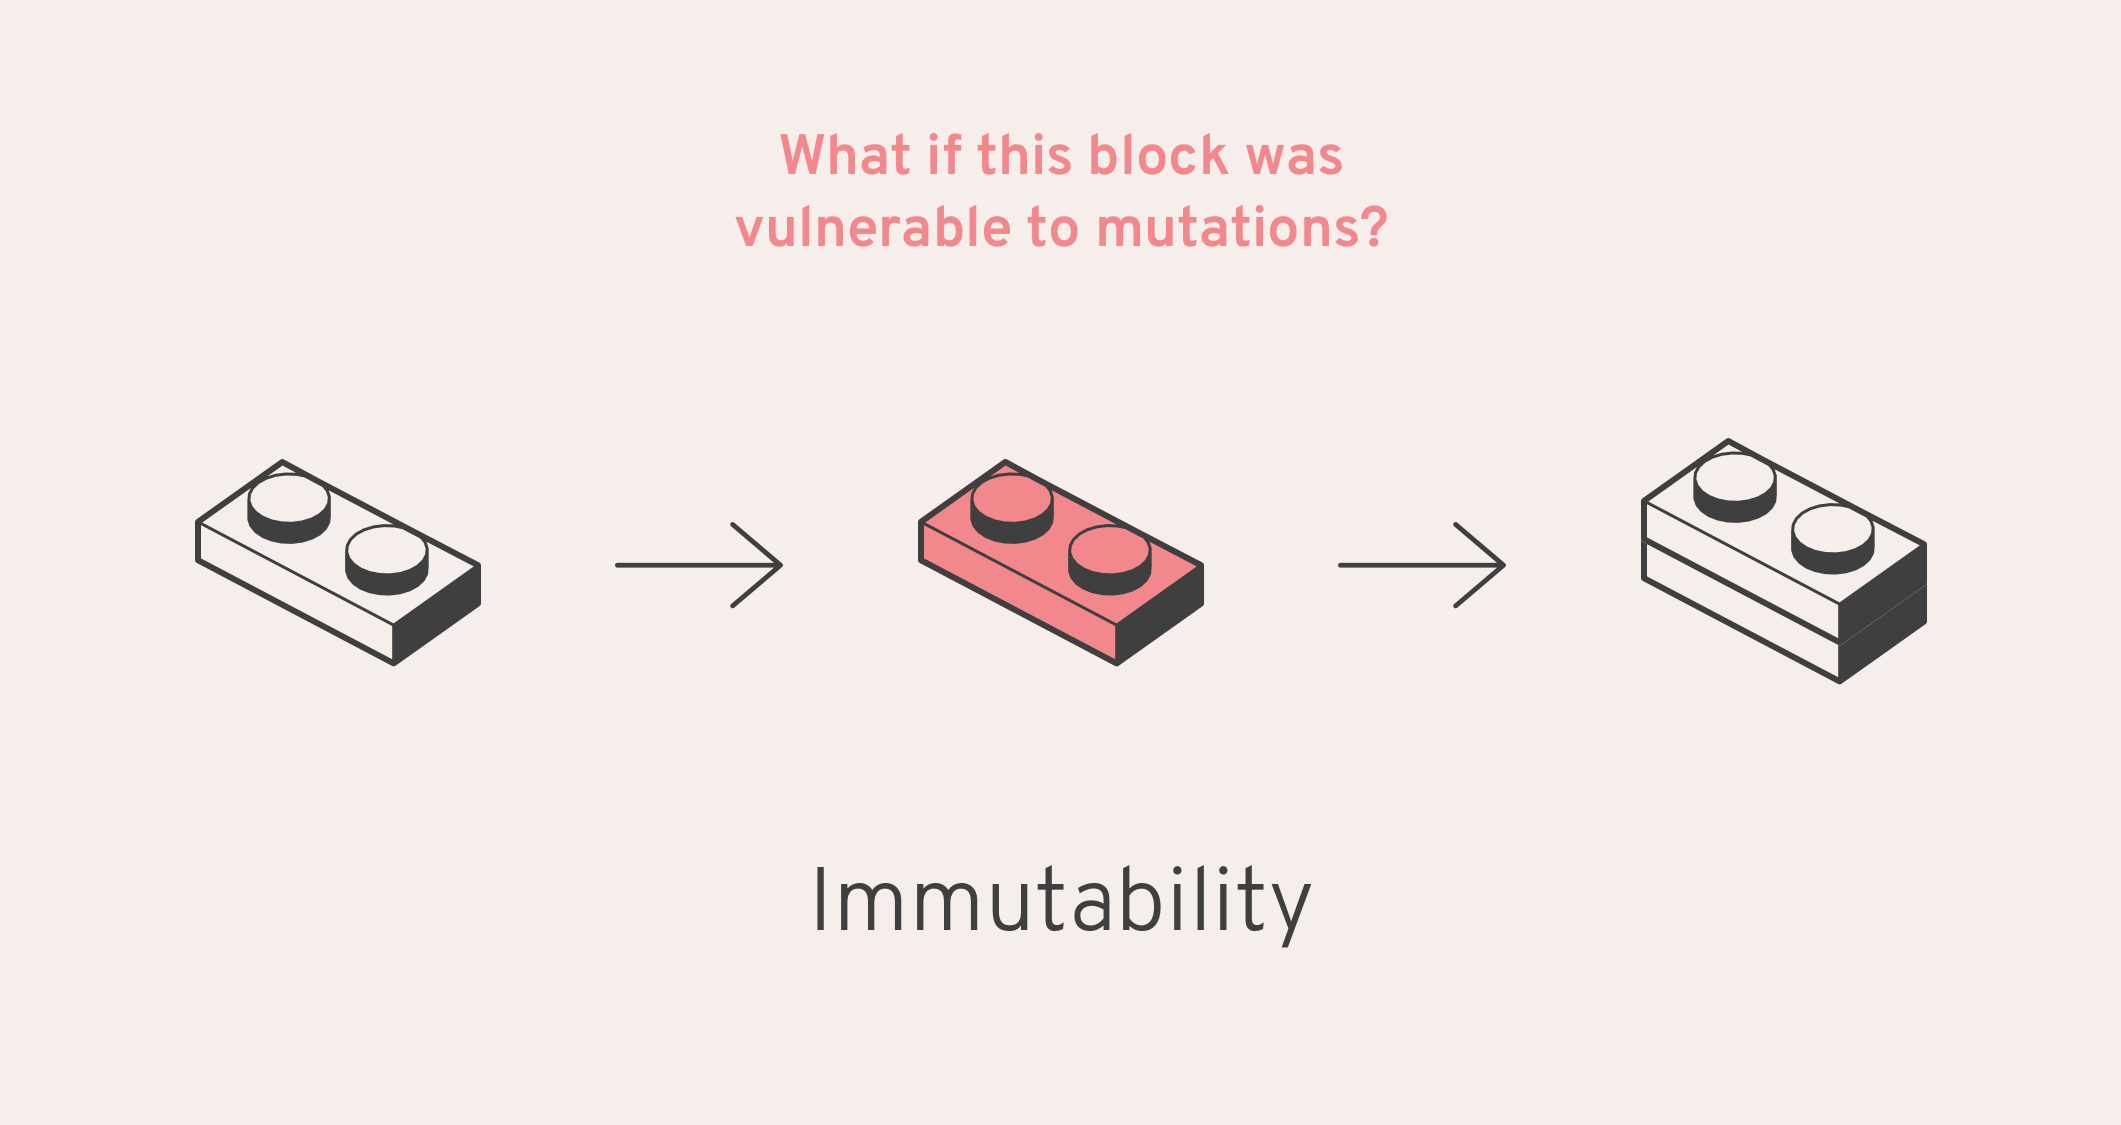
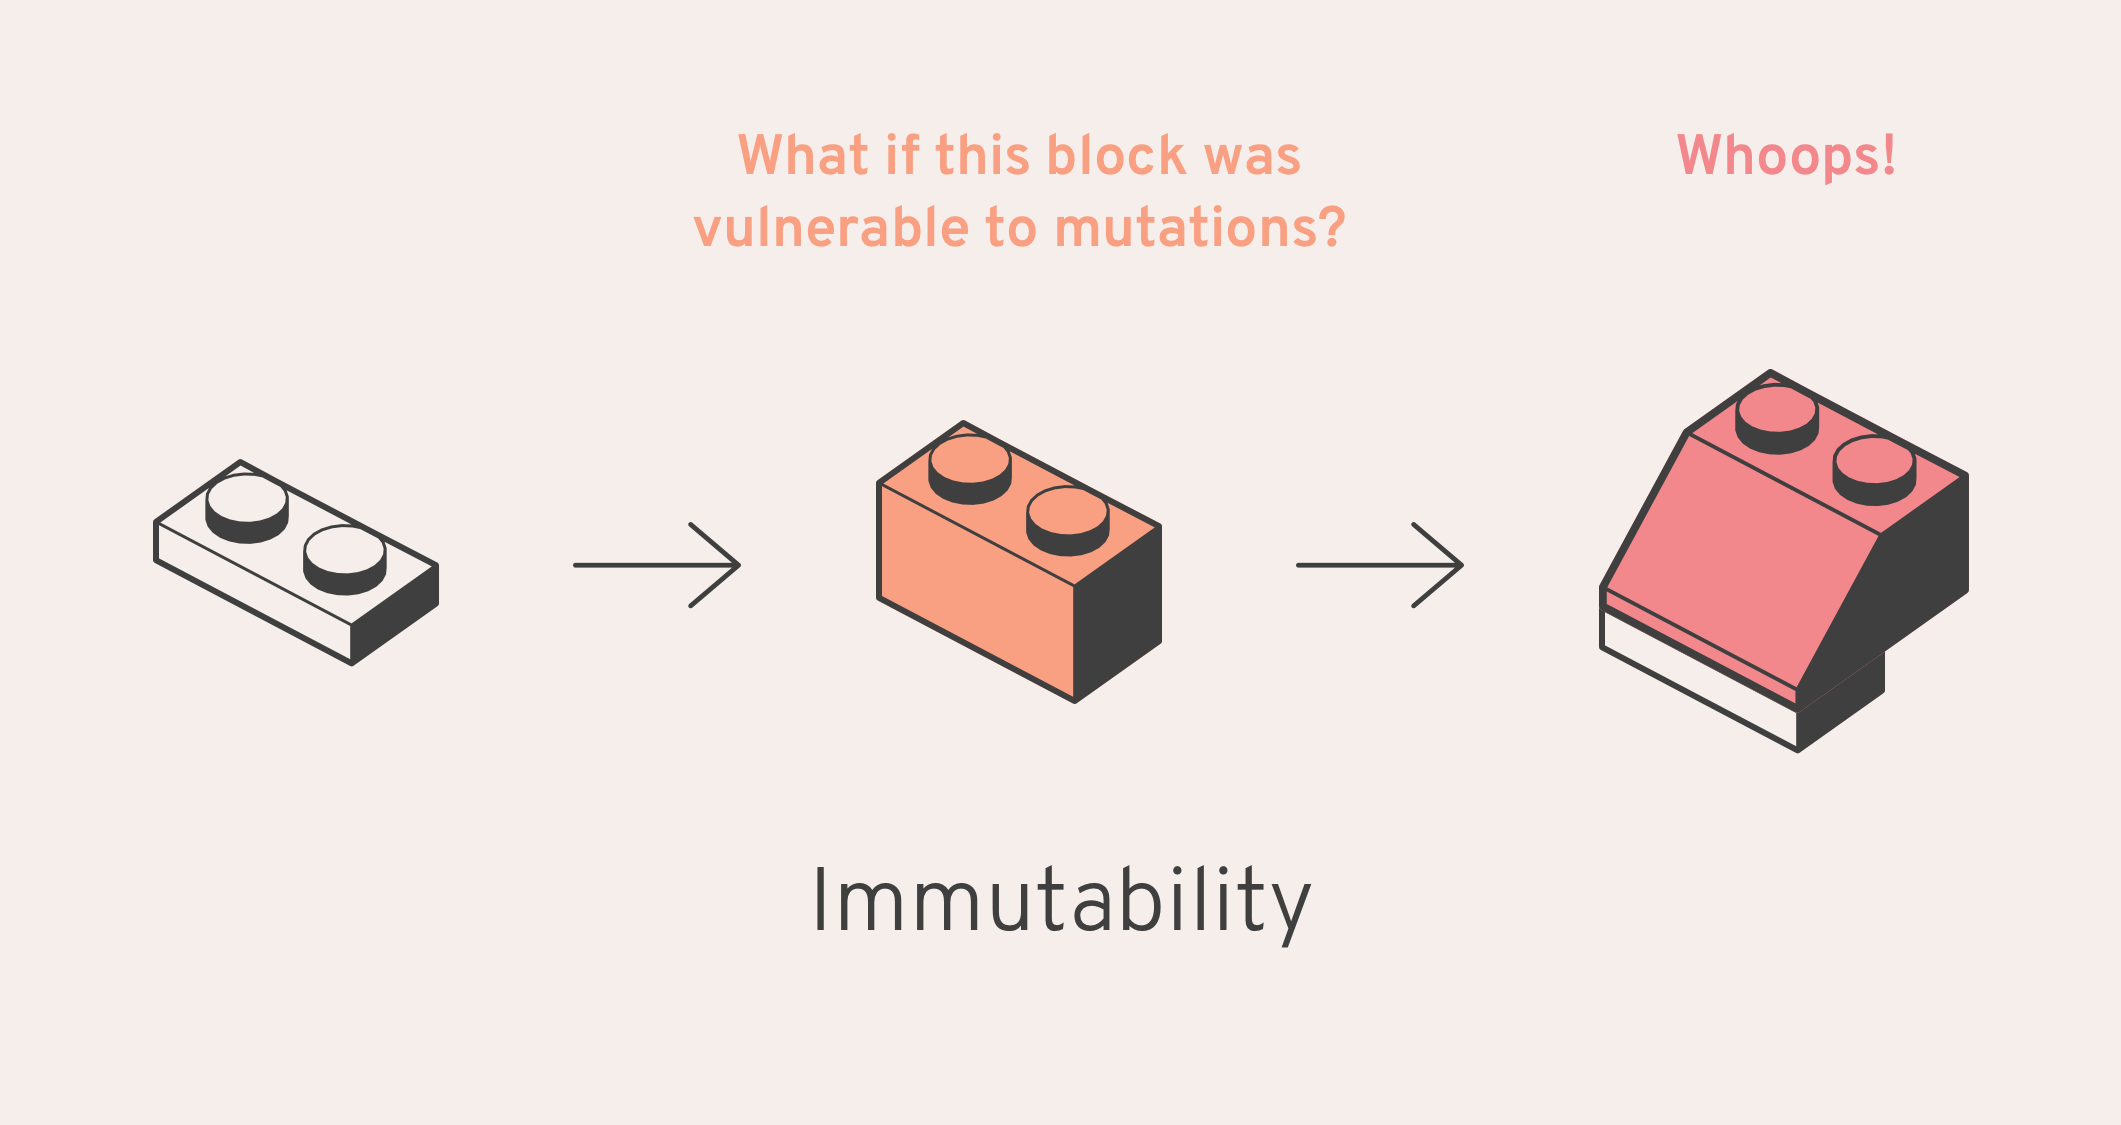
Part 3

diff --git a/src/Writings/building-blocks.md b/src/Writings/building-blocks.md
@@ -53,7 +53,7 @@ Purity in functional programming means that we don't want any side effects, or a
 
 ![](/images/fp/impure-function.png)
 
-Having a pure function means that we have certain guarantees, we can use mathematics and category theory now. This is a pure function:
+Having a pure function means that we have certain guarantees, we can use mathematics (category theory) now. This is a pure function:
 
 ![](/images/fp/pure-function-1.png)
 
@@ -65,12 +65,9 @@ Given a function `f` which takes the argument `A` and returns `B`, and another f
 
 — [Bartosz Milewski](https://bartoszmilewski.com/2014/11/04/category-the-essence-of-composition/)
 
-__To summarize, why is it useful that a function is pure:__
-1. Same input equals to same output, always.
-2. We have the benefits of simplicity.  
-   <small>Ease of understanding, etc.</small>
-3. Allows for function composition.  
-   <small>Which in turn allows for other mathematical operations.</small>
+This goes hand in hand with immutability, another feature of pure-functional-programming languages. Because everything in these languages is immutable, everything is simple.
+
+![](/images/fp/immutability.png)
 
 
 
@@ -92,14 +89,25 @@ Every programming language has a set of predefined types, like `Integer` and `Bo
 
 ![](/images/fp/union-types.png)
 
-Or a more abstract one:
+If a function takes an argument of the type `Stacks`, you can use any of these values. You can also make more abstract types:
 
 ![](/images/fp/option-type.png)
 
-We could have __some data__ or __none__ at all.
+We could have __some blocks__ or __none__ at all. This is a better way to deal with none-existing values, as opposed to a `null` pointer.
 
 
 
-## Building Blocks
+## Conclusion
 
-...
+You may be wondering why am I using the phrase "building blocks", it's because, to me, this really feels like putting blocks together and sometimes dismantling them.
+
+![](/images/fp/our-wall-type.png)
+
+```haskell
+dismantleAndGetBlockA :: OurWall -> BlockA
+dismantleAndGetBlockA (Wall blockA blockB blockC) = blockA
+```
+
+I hope this shows some of basics and advantages of (pure) functional programming. The rabbit hole goes a lot deeper, but I think the basics alone are already super useful.
+
+![](/images/fp/conclusion.png)
